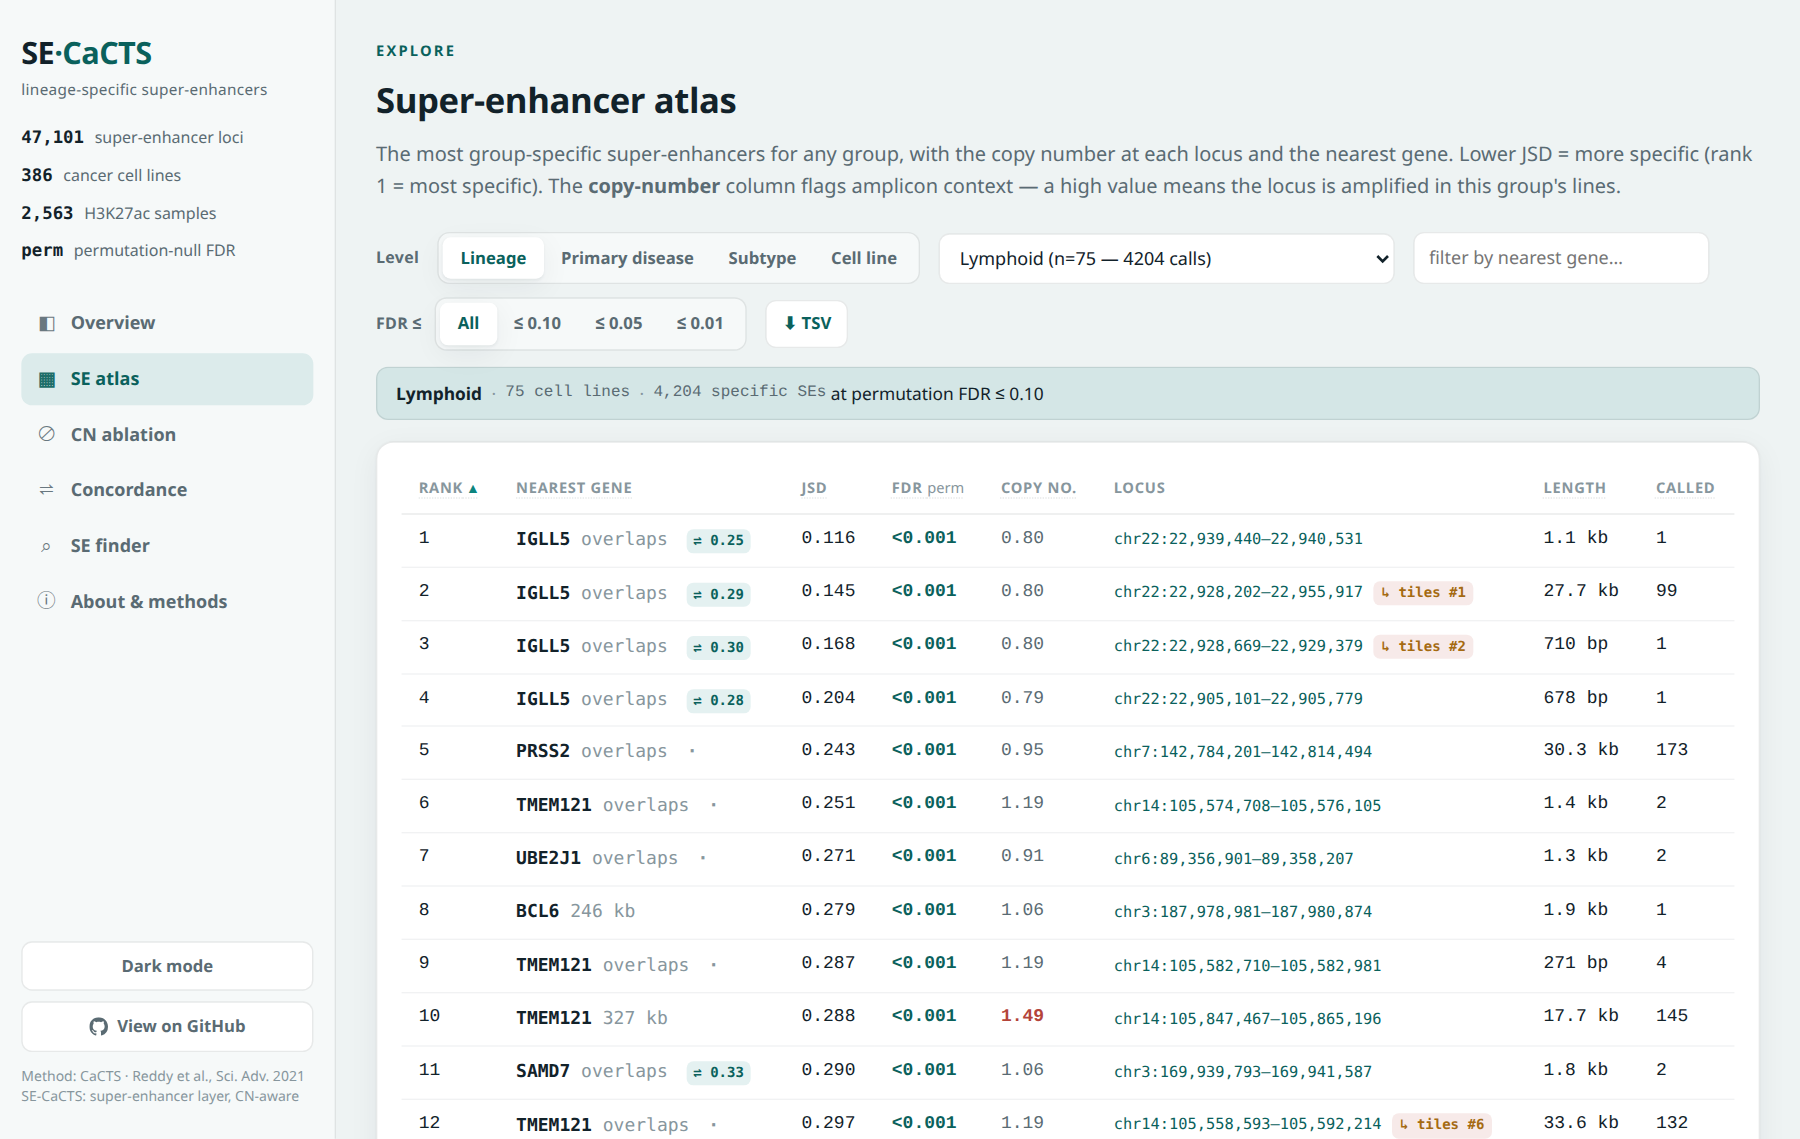
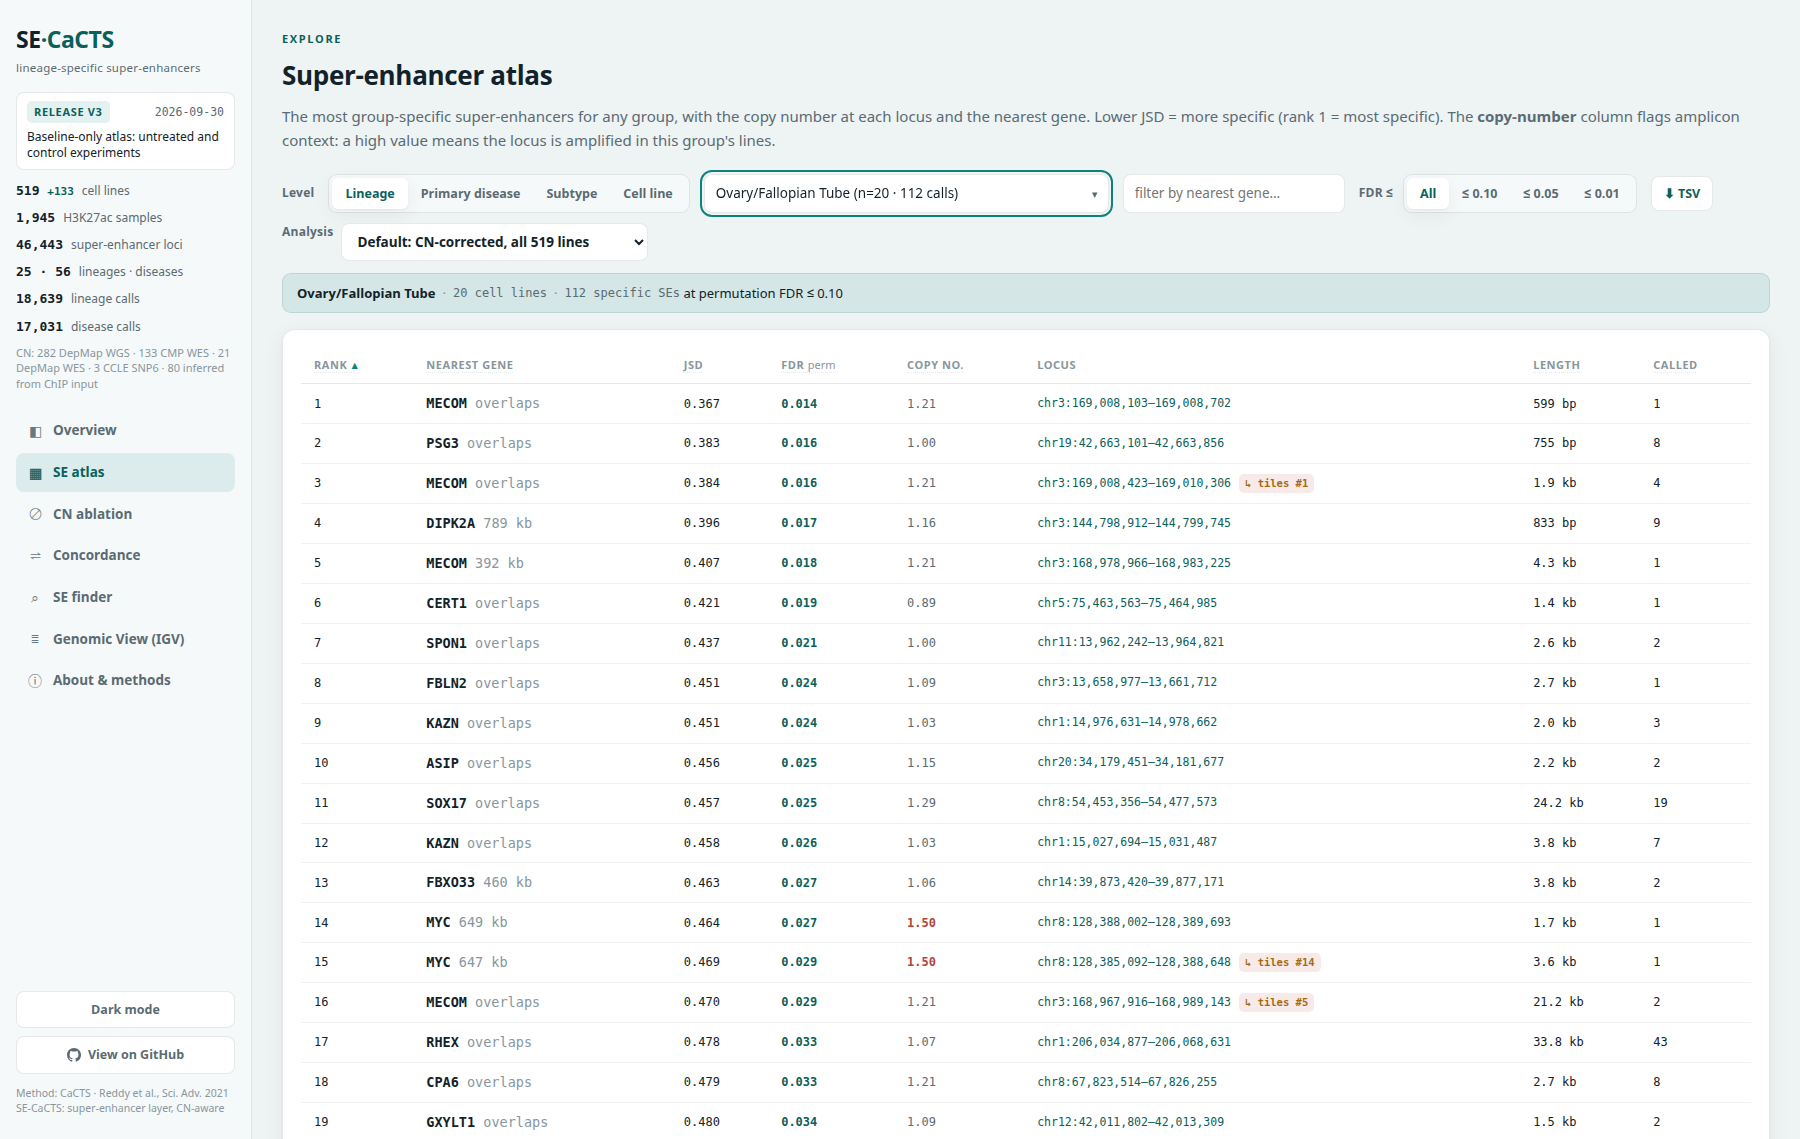
README: v3 numbers and status; screenshots retaken from the v3 dashboard, plus the cell-line comparisons and Genomic View

diff --git a/README.md b/README.md
@@ -2,9 +2,10 @@
 
 ### ▶ [**Explore the atlas: thirtysix.github.io/SE-CaCTS**](https://thirtysix.github.io/SE-CaCTS/)
 
-Browse the lineage-specific super-enhancers for any of 24 cancer lineages and 46 primary diseases, with
-copy number at each locus, the nearest gene, cross-layer concordance and a per-gene lookup. No install,
-no backend.
+Browse the lineage-specific super-enhancers for any of 25 cancer lineages and 56 primary diseases, and each
+of 519 cell lines compared with all lines and with the lines of its subtype, disease and lineage, with copy
+number at each locus, the nearest gene, cross-layer concordance, a per-gene lookup and a genome browser. No
+install, no backend.
 
 [![SE-CaCTS dashboard](assets/screenshots/dashboard-overview.png)](https://thirtysix.github.io/SE-CaCTS/)
 
@@ -14,17 +15,21 @@ epigenomic analog of what CaCTS does for master transcription factors.*
 
 | | | |
 |---|---|---|
-| **3,468** | H3K27ac experiments | pulled from ChIP-Atlas and called for super-enhancers |
-| **47,101** | union super-enhancer loci | in the scored, QC-gated catalogue |
-| **386** | cancer cell lines | after QC, each with **measured copy number**, across **24** Oncotree lineages and **46** primary diseases |
-| **12,994** | lineage-specific super-enhancers | in **23 of 24** lineages, at a calibrated permutation FDR ≤ 0.10 |
-| **11,652** | disease-specific super-enhancers | in **43 of 46** primary diseases, same threshold |
+| **2,422** | untreated or control H3K27ac experiments | from ChIP-Atlas, plus SRA data it lacks run through its own v1 pipeline |
+| **46,443** | union super-enhancer loci | in the scored, QC-gated catalogue |
+| **519** | cancer cell lines | after QC, each with copy number, across **25** Oncotree lineages and **56** primary diseases |
+| **18,639** | lineage-specific super-enhancers | in **25 of 25** lineages, at a calibrated permutation FDR ≤ 0.10 |
+| **17,031** | disease-specific super-enhancers | in **54 of 56** primary diseases, same threshold |
 
-The scored atlas is the QC-gated arm: **2,563** of those experiments, over **47,101** loci, collapsed to
-the 386 cell lines above. Copy number comes from DepMap WGS for 282 lines, Cell Model Passports WES for 91
-and DepMap WES for 13. Those are the numbers the dashboard shows, and every result below comes from them.
-This is the **v2** atlas (2026-09-28); the 282-line v1 atlas it extends is kept in `phase2/results/` and
-`phase2/scores/`, and 97% of its calls reappear in v2.
+The scored atlas is the QC-gated arm: **1,945** of those experiments, over **46,443** loci, collapsed to
+the 519 cell lines above. Copy number comes from DepMap WGS for 282 lines, Cell Model Passports WES for 133,
+DepMap WES for 21 and CCLE SNP6 for 3, and is inferred from ChIP input for 80 (a weaker correction; the
+dashboard's Analysis selector shows the atlas without those lines). This is the **v3** atlas (2026-09-30):
+**baseline only**, meaning drug-treated, knocked-down and otherwise perturbed experiments, input controls and
+other marks were removed after every experiment's GEO record was read. The v2 atlas (386 lines, treated
+experiments included) is kept in `phase2/results_v2/` and `phase2/scores_v2/`; 87.8% of its lineage calls
+reappear in v3, and no quality measure degraded (calibration, expression concordance, master-regulator
+recovery: 20 of 22 in their own lineage).
 
 ---
 
@@ -59,9 +64,9 @@ of one.
 
 ## Analysis Steps
 
-**Status (2026-09-28): the v2 atlas is built, scored, validated, and browsable.** Phases 1, 2, 3b, 4, 5, 6
-and 7 are done. What remains open is copy-number *inference* for lines no measured source covers, which is
-scope expansion rather than a blocker. See below.
+**Status (2026-09-30): the v3 atlas is built, scored, validated, and browsable.** Phases 1 to 7 are done,
+including copy-number inference from ChIP input for lines no measured source covers. The v3.1 plan (label
+fixes, a stricter copy-number floor, subtype-level testing) is in `ROADMAP.md`.
 
 | phase | what | state |
 |---|---|---|
@@ -73,7 +78,8 @@ scope expansion rather than a blocker. See below.
 | 6 | cross-layer concordance bridge (SE ↔ expression) | done, both stages |
 | 7 | results dashboard | done, `docs/` (served by GitHub Pages) |
 | 3b | CN-source expansion: CMP WES + DepMap WES → **v2 atlas, 386 lines** | done 2026-09-28 (~10 BU) |
-| 3 | CN *inference* from ChIP input, for lines no measured source covers | **open**: per-line agreement too variable (r 0.15–0.96) to use yet |
+| 3 | CN *inference* from ChIP input, for lines no measured source covers | done: used for 80 lines that pass a quality gate; corrects less than measured copy number |
+| v3 | baseline-only atlas: every experiment's GEO record read, perturbed experiments removed; own processing of SRA data ChIP-Atlas lacks | done 2026-09-30 (519 lines) |
 
 **The atlas.** Two pulls ran on Roihu with the same code: 2,916 experiments for the v1 panel (one retired
 SRX) and 552 more for the 122 lines that became copy-number-correctable through whole-exome sources. The
@@ -89,7 +95,8 @@ Jaccard 1.0000).
 used **fails an outright calibration test**: run on shuffled group labels, where nothing real exists to
 find, it calls **5.2%** of tests "specific" (vs 7.4% on real data; 6.05% vs 7.4% on v1). It is a
 non-functional FDR, not a loose one. The canonical run is now a **label-permutation null** (B = 1,000),
-which makes **0 calls** on shuffled labels across 7.25 million tests at three levels. Every count in this repo is the permutation one; the analytic counts are void.
+which makes **0 calls** on shuffled labels across 8.5 million tests at three levels in v3 (7.25 million in
+v2). Every count in this repo is the permutation one; the analytic counts are void.
 See `RESULTS.md` for the calibration test and what it means for every count here.
 
 **Read `RESULTS.md` for what is actually claimable.** It is deliberately narrower than the raw outputs.
@@ -175,6 +182,11 @@ The staged `data/` is committed, so this works straight from a clone with no set
 |---|---|
 | [![SE atlas](assets/screenshots/dashboard-atlas.png)](https://thirtysix.github.io/SE-CaCTS/#atlas) | [![CN ablation](assets/screenshots/dashboard-cn-ablation.png)](https://thirtysix.github.io/SE-CaCTS/#cn) |
 | The most group-specific super-enhancers for a group, with permutation FDR, copy number, nearest gene, locus and how many experiments called each one. | What correction removes (named recurrent amplicons) versus what it rescues (real, copy-neutral specificity). |
+
+| One cell line, four comparisons | Genomic View (IGV) |
+|---|---|
+| [![Cell-line comparisons](assets/screenshots/dashboard-atlas-line.png)](https://thirtysix.github.io/SE-CaCTS/#atlas) | [![Genomic View](assets/screenshots/dashboard-genomic-view.png)](https://thirtysix.github.io/SE-CaCTS/#line) |
+| Each line's specific super-enhancers against all lines and against the other lines of its subtype, disease and lineage; a badge shows which comparisons call each one. | Any of the 519 lines in igv.js: its super-enhancers, the four comparisons as tracks, copy number, and ChIP-Atlas coverage streamed per experiment. |
 
 [![Cross-layer concordance](assets/screenshots/dashboard-concordance.png)](https://thirtysix.github.io/SE-CaCTS/#concordance)
 
